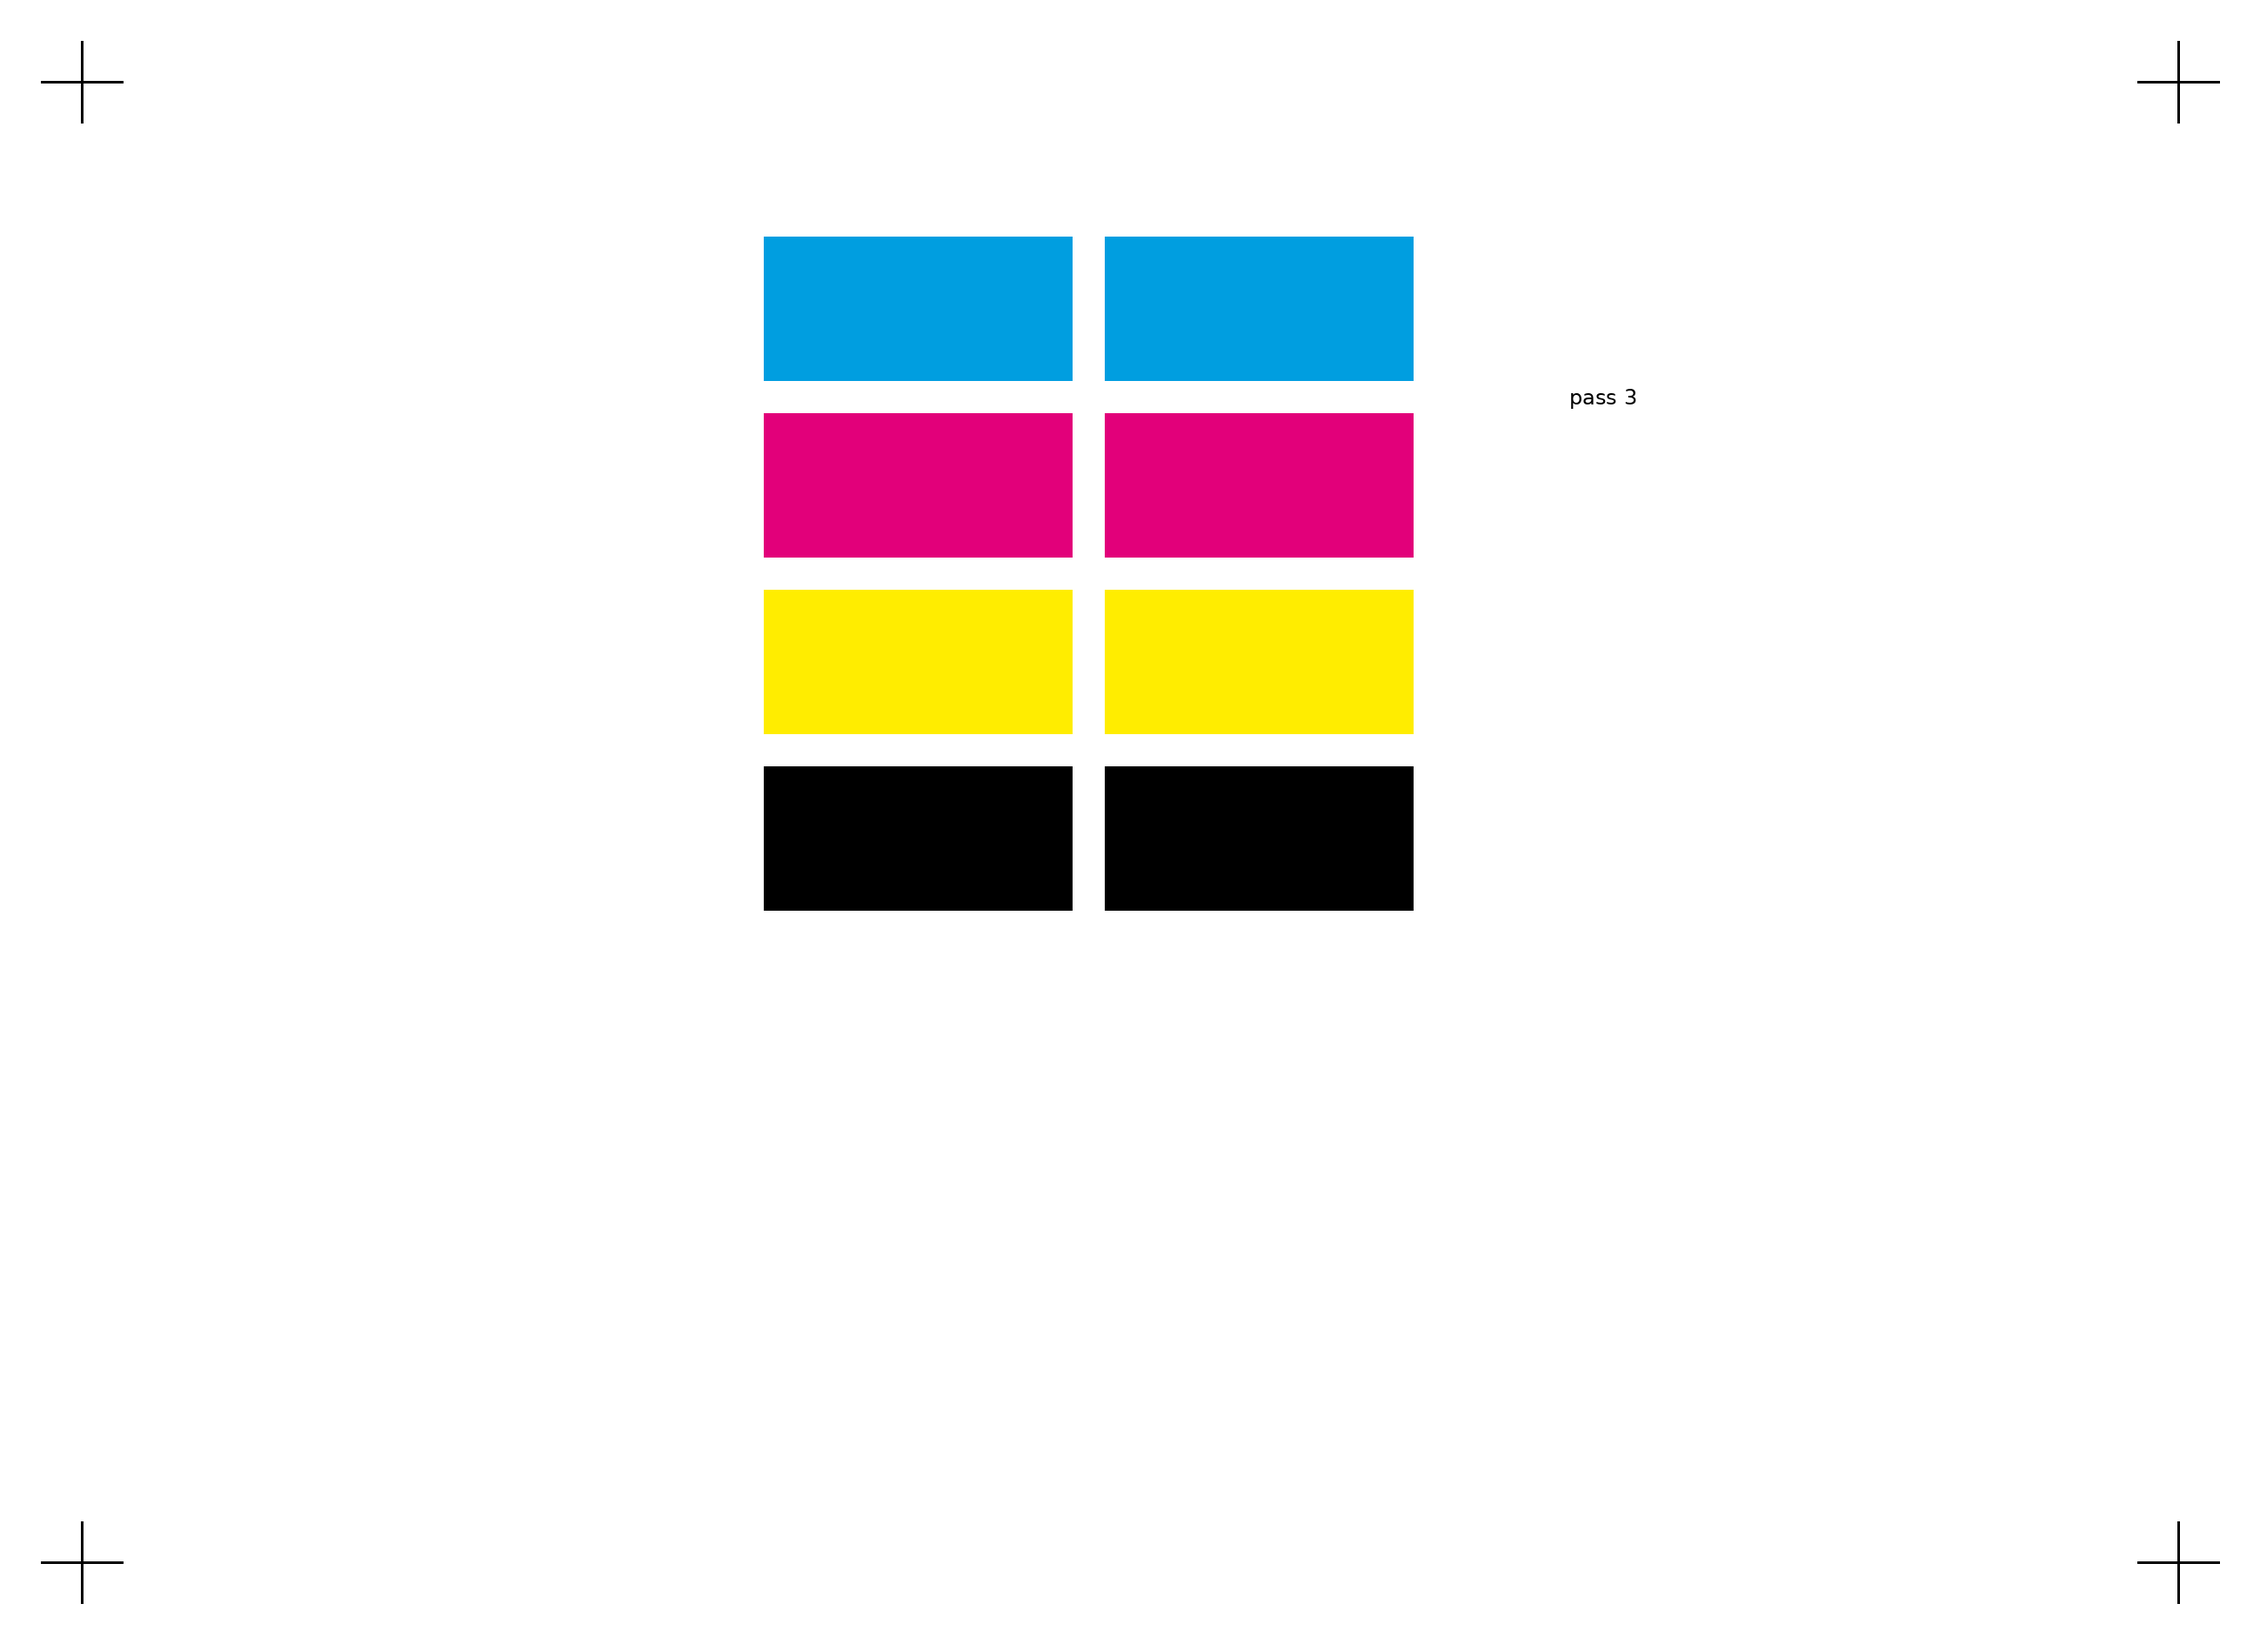
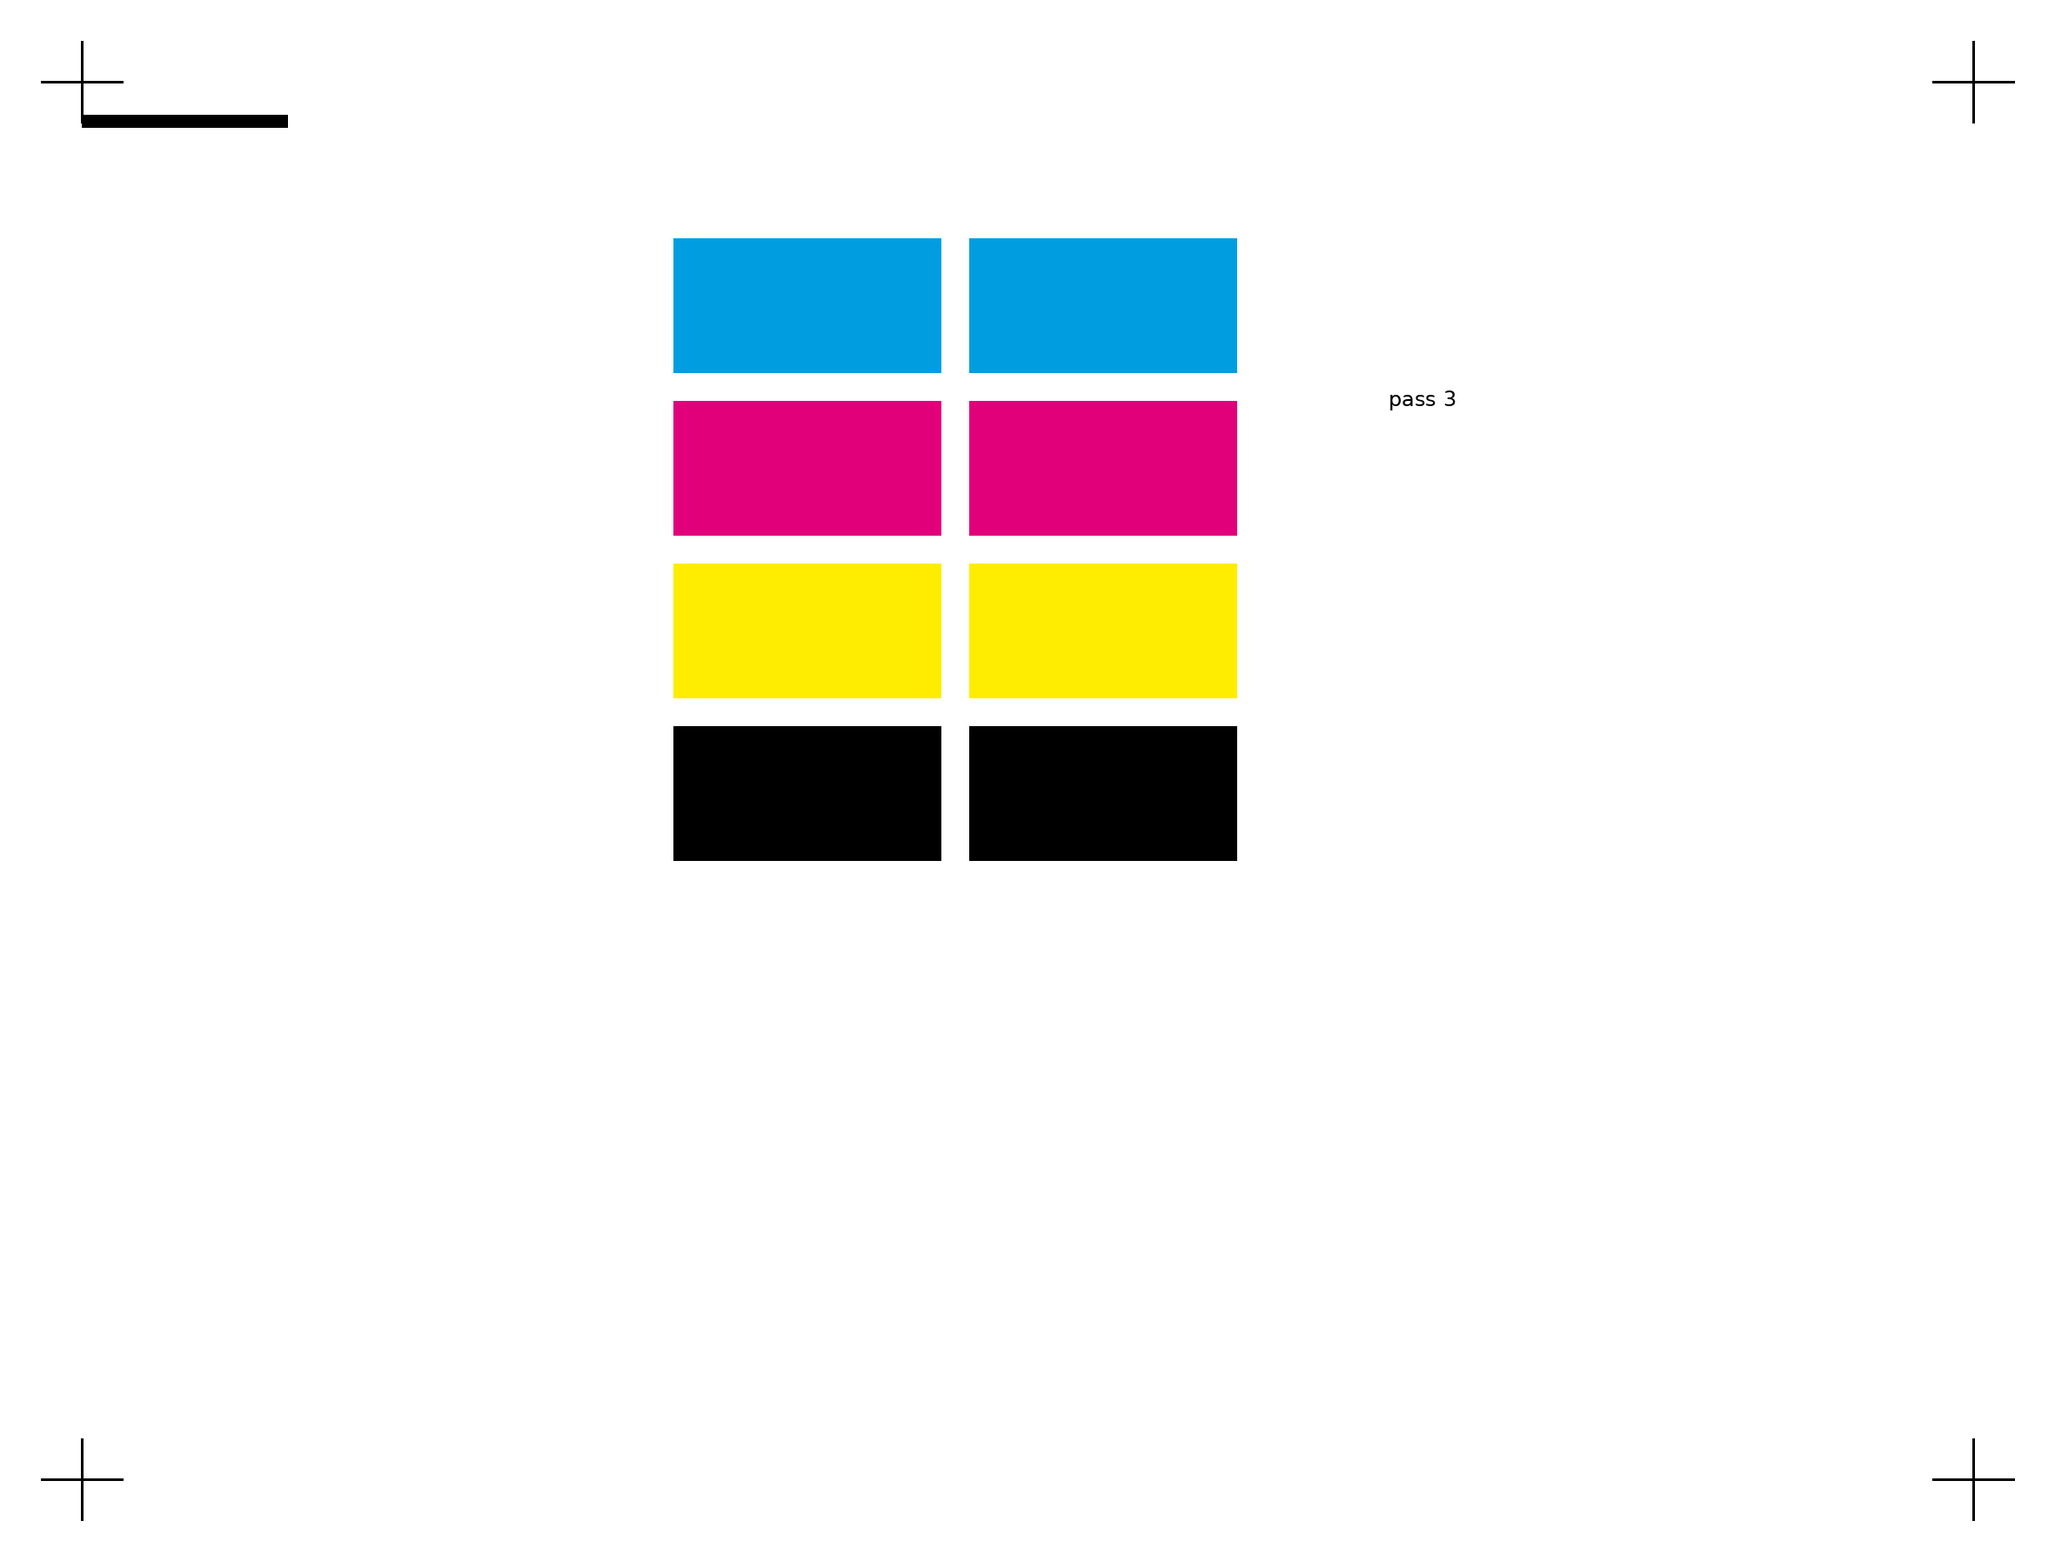
Shrink the glaze tile, and give every pass a scale bar
The tile was 110x80 on 115x85 glass — two and a half millimetres of clearance,
which is not enough to place by hand without being tempted to resize. Resizing
is fatal here: the whole third row measures registration, so nudging a pass to
make it fit turns "how well does the machine repeat" into "how well did I aim".
Now 100x76, with margins you can drop it into.

Every pass carries a 10mm bar, not just the first. Two bars of different
lengths on one plate say "this pass went down at a different scale" at a
glance. The glaze test never had one, which is why a resize stayed invisible
until the passes would not line up.

The size in the console line is measured off the raster now, rather than
repeated by hand — it was still claiming 110x80 after the change.

diff --git a/tools/make_test_target.py b/tools/make_test_target.py
@@ -345,7 +345,7 @@ GLAZE_PAIRS = [
 ]
 
 
-def glaze_test(width_mm: float = 110.0, height_mm: float = 80.0) -> list[Raster]:
+def glaze_test(width_mm: float = 100.0, height_mm: float = 76.0) -> list[Raster]:
     """Four files to print one over another, without moving the glass.
 
     Two questions, neither answerable from a single pass. Does repeating an ink
@@ -366,24 +366,30 @@ def glaze_test(width_mm: float = 110.0, height_mm: float = 80.0) -> list[Raster]
     small, tiny = font(1.3), font(1.0)
 
     first.text(
-        (left + mm(3.5), mm(4.0)),
-        f"glassprint glaze · {width_mm:.0f}x{height_mm:.0f}mm · all four, in order, glass unmoved",
+        (left + mm(3.5), mm(3.2)),
+        f"glassprint glaze · {width_mm:.0f}x{height_mm:.0f}mm · all four at 100%, glass unmoved",
         font=small,
         fill=(*INK, 255),
     )
+    # On every pass, not just the first: if pass 2 goes down at a different
+    # scale, two bars of different lengths say so immediately. Their absence is
+    # exactly why a resize went unnoticed until the passes would not line up.
+    for draw in draws:
+        draw.rectangle([left, mm(5.6), left + mm(10), mm(5.6) + mm(0.6)], fill=(*INK, 255))
+    first.text((left + mm(11), mm(5.3)), "10mm — check before every pass", font=tiny, fill=(*INK, 255))
 
     # -- 1. depth: the same ink, one to four passes --------------------------
     first.text(
-        (left, mm(8.0)),
+        (left, mm(8.4)),
         "1  same ink, 1-4 passes — where does it stop deepening?",
         font=small,
         fill=(*INK, 255),
     )
-    block_w, block_h, gap = mm(15.0), mm(7.0), mm(1.6)
-    top = mm(11.5)
+    block_w, block_h, gap = mm(13.0), mm(6.5), mm(1.4)
+    top = mm(11.6)
     for depth in range(1, 5):
         first.text(
-            (left + (depth - 1) * (block_w + gap) + mm(6.5), mm(10.2)),
+            (left + (depth - 1) * (block_w + gap) + mm(5.5), mm(10.4)),
             str(depth),
             font=tiny,
             fill=(*INK, 255),
@@ -409,11 +415,11 @@ def glaze_test(width_mm: float = 110.0, height_mm: float = 80.0) -> list[Raster]
     for index, ((name_a, rgb_a), (name_b, rgb_b)) in enumerate(GLAZE_PAIRS):
         x = left + index * cell
         # Offset halves, so each cell reads: A alone, both, B alone.
-        draws[0].rectangle([x, y, x + int(cell * 0.62), y + mm(10.0)], fill=(*rgb_a, 255))
+        draws[0].rectangle([x, y, x + int(cell * 0.62), y + mm(8.0)], fill=(*rgb_a, 255))
         draws[1].rectangle(
-            [x + int(cell * 0.38), y, x + cell - mm(1.5), y + mm(10.0)], fill=(*rgb_b, 255)
+            [x + int(cell * 0.38), y, x + cell - mm(1.5), y + mm(8.0)], fill=(*rgb_b, 255)
         )
-        first.text((x, y + mm(10.4)), f"{name_a} then {name_b}", font=tiny, fill=(*INK, 255))
+        first.text((x, y + mm(8.4)), f"{name_a} then {name_b}", font=tiny, fill=(*INK, 255))
 
     # -- 3. registration, measured rather than eyeballed ---------------------
     #
@@ -422,7 +428,7 @@ def glaze_test(width_mm: float = 110.0, height_mm: float = 80.0) -> list[Raster]
     # bars, pass 2 the lower ones at known offsets, and whichever pair lines up
     # is the drift. Bars are 0.3mm because 0.1mm hairlines thicken under
     # overspray, which is exactly the error being measured.
-    y += mm(13.0)
+    y += mm(11.4)
     first.text((left, y), "3  registration — which pair lines up? that is the drift", font=small, fill=(*INK, 255))
     y += mm(2.6)
     offsets = [-0.3, -0.2, -0.1, 0.0, 0.1, 0.2, 0.3]
@@ -469,10 +475,17 @@ def main() -> int:
         tile.save(out, fmt="png", dpi=(DPI, DPI))
         print(f"{out.name:38} {tile.width}x{tile.height}px  {w:.0f}x{h:.0f}mm")
 
-    for index, raster in enumerate(glaze_test(), start=1):
+    passes = glaze_test()
+    for index, raster in enumerate(passes, start=1):
         out = OUT / f"glassprint-glaze-pass{index}of4.png"
         raster.save(out, fmt="png", dpi=(DPI, DPI))
-    print(f"{'glassprint-glaze-pass1..4of4.png':38} 110x80mm each")
+    # Measured off the raster rather than repeated by hand, which is how the
+    # last one came to claim a size it had stopped being.
+    first = passes[0]
+    print(
+        f"{'glassprint-glaze-pass1..4of4.png':38} {first.width}x{first.height}px  "
+        f"{px_mm(first.width):.0f}x{px_mm(first.height):.0f}mm each"
+    )
     return 0
 
 
